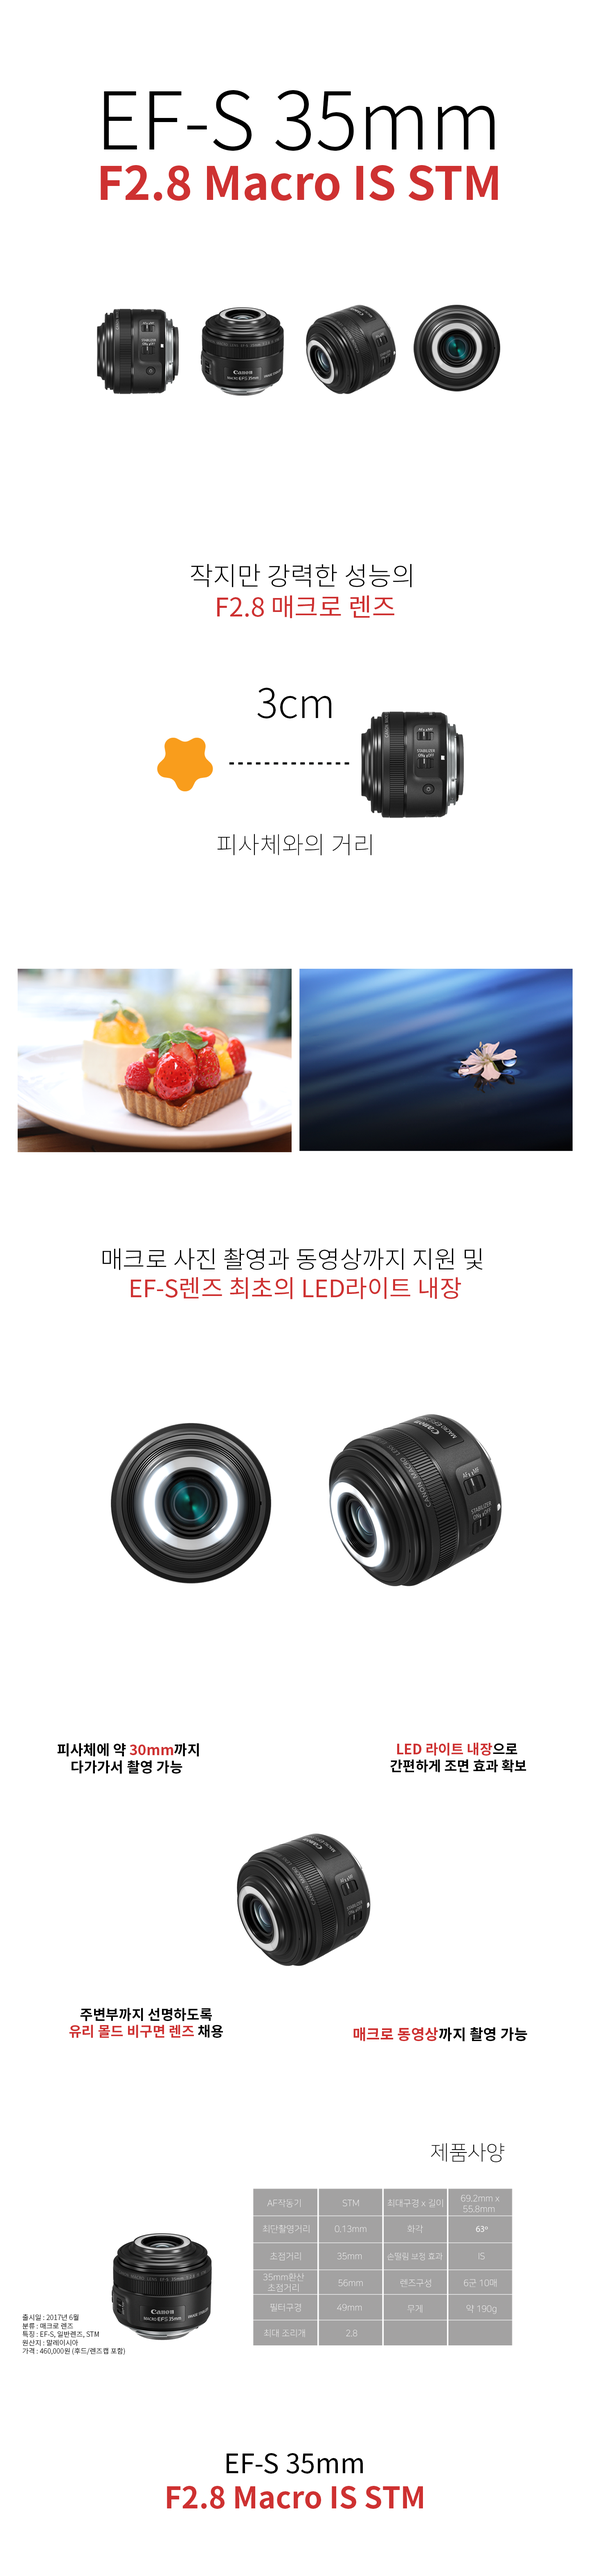
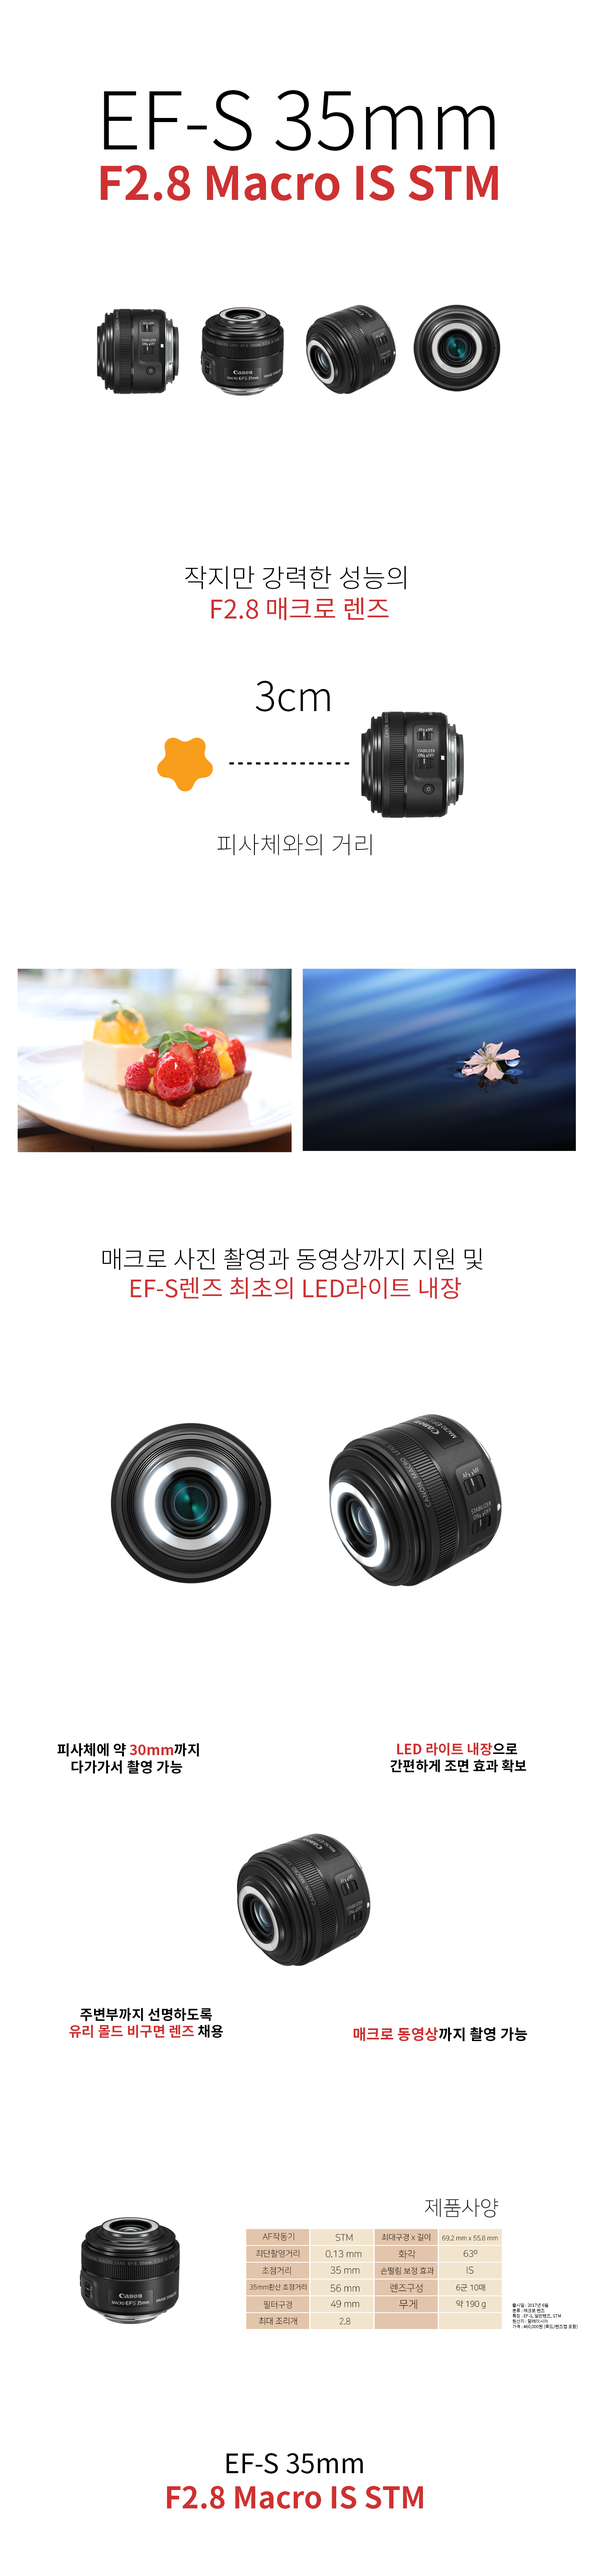
Add files via upload

diff --git a/P03.html b/P03.html
@@ -1,3 +1,4 @@
+<!DOCTYPE html>
 <html lang="kr">
   <head>
     <link href="https://fonts.googleapis.com/css?family=Noto+Sans+KR" rel="stylesheet">
@@ -119,7 +120,7 @@
 
     <section class="bodywrap">
       <div class="page">
-        <img src="images/P01.png">
+        <img src="images/P03.png">
       </div>
     </section>
 

diff --git a/P02.html b/P02.html
@@ -120,7 +120,7 @@
 
     <section class="bodywrap">
       <div class="page">
-        <img src="images/P01.png">
+        <img src="images/P02.png">
       </div>
     </section>
 
